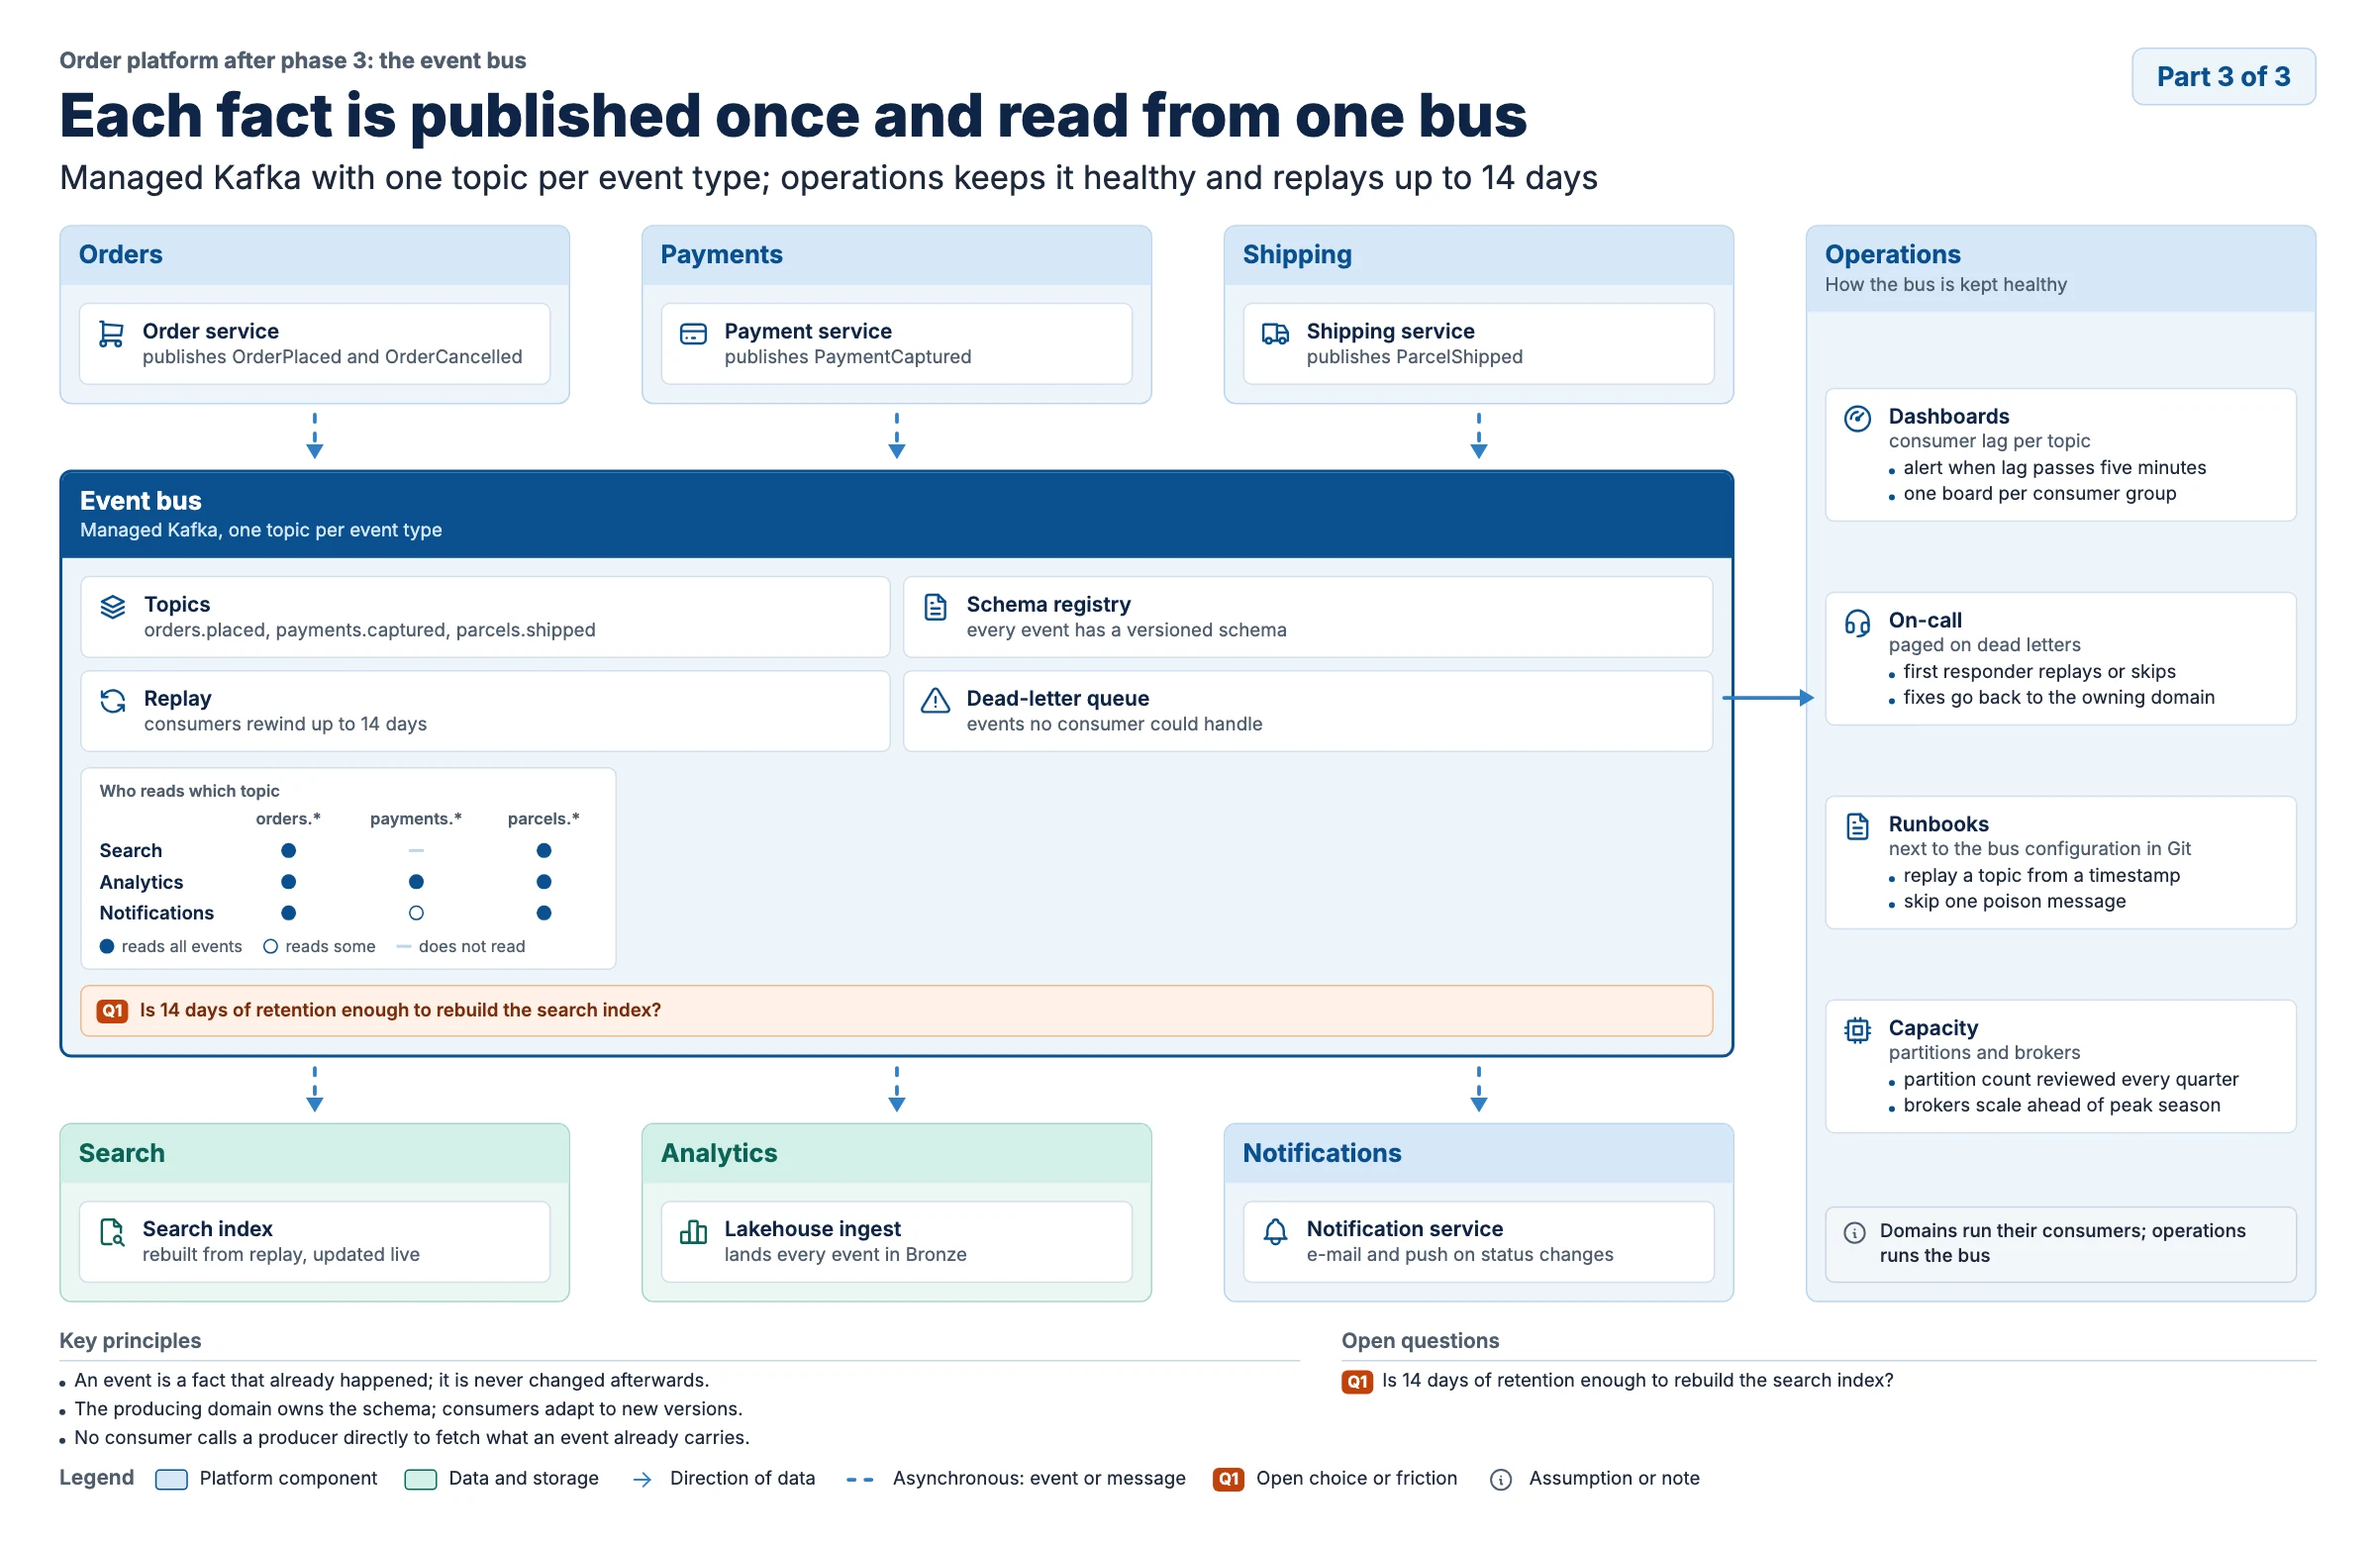
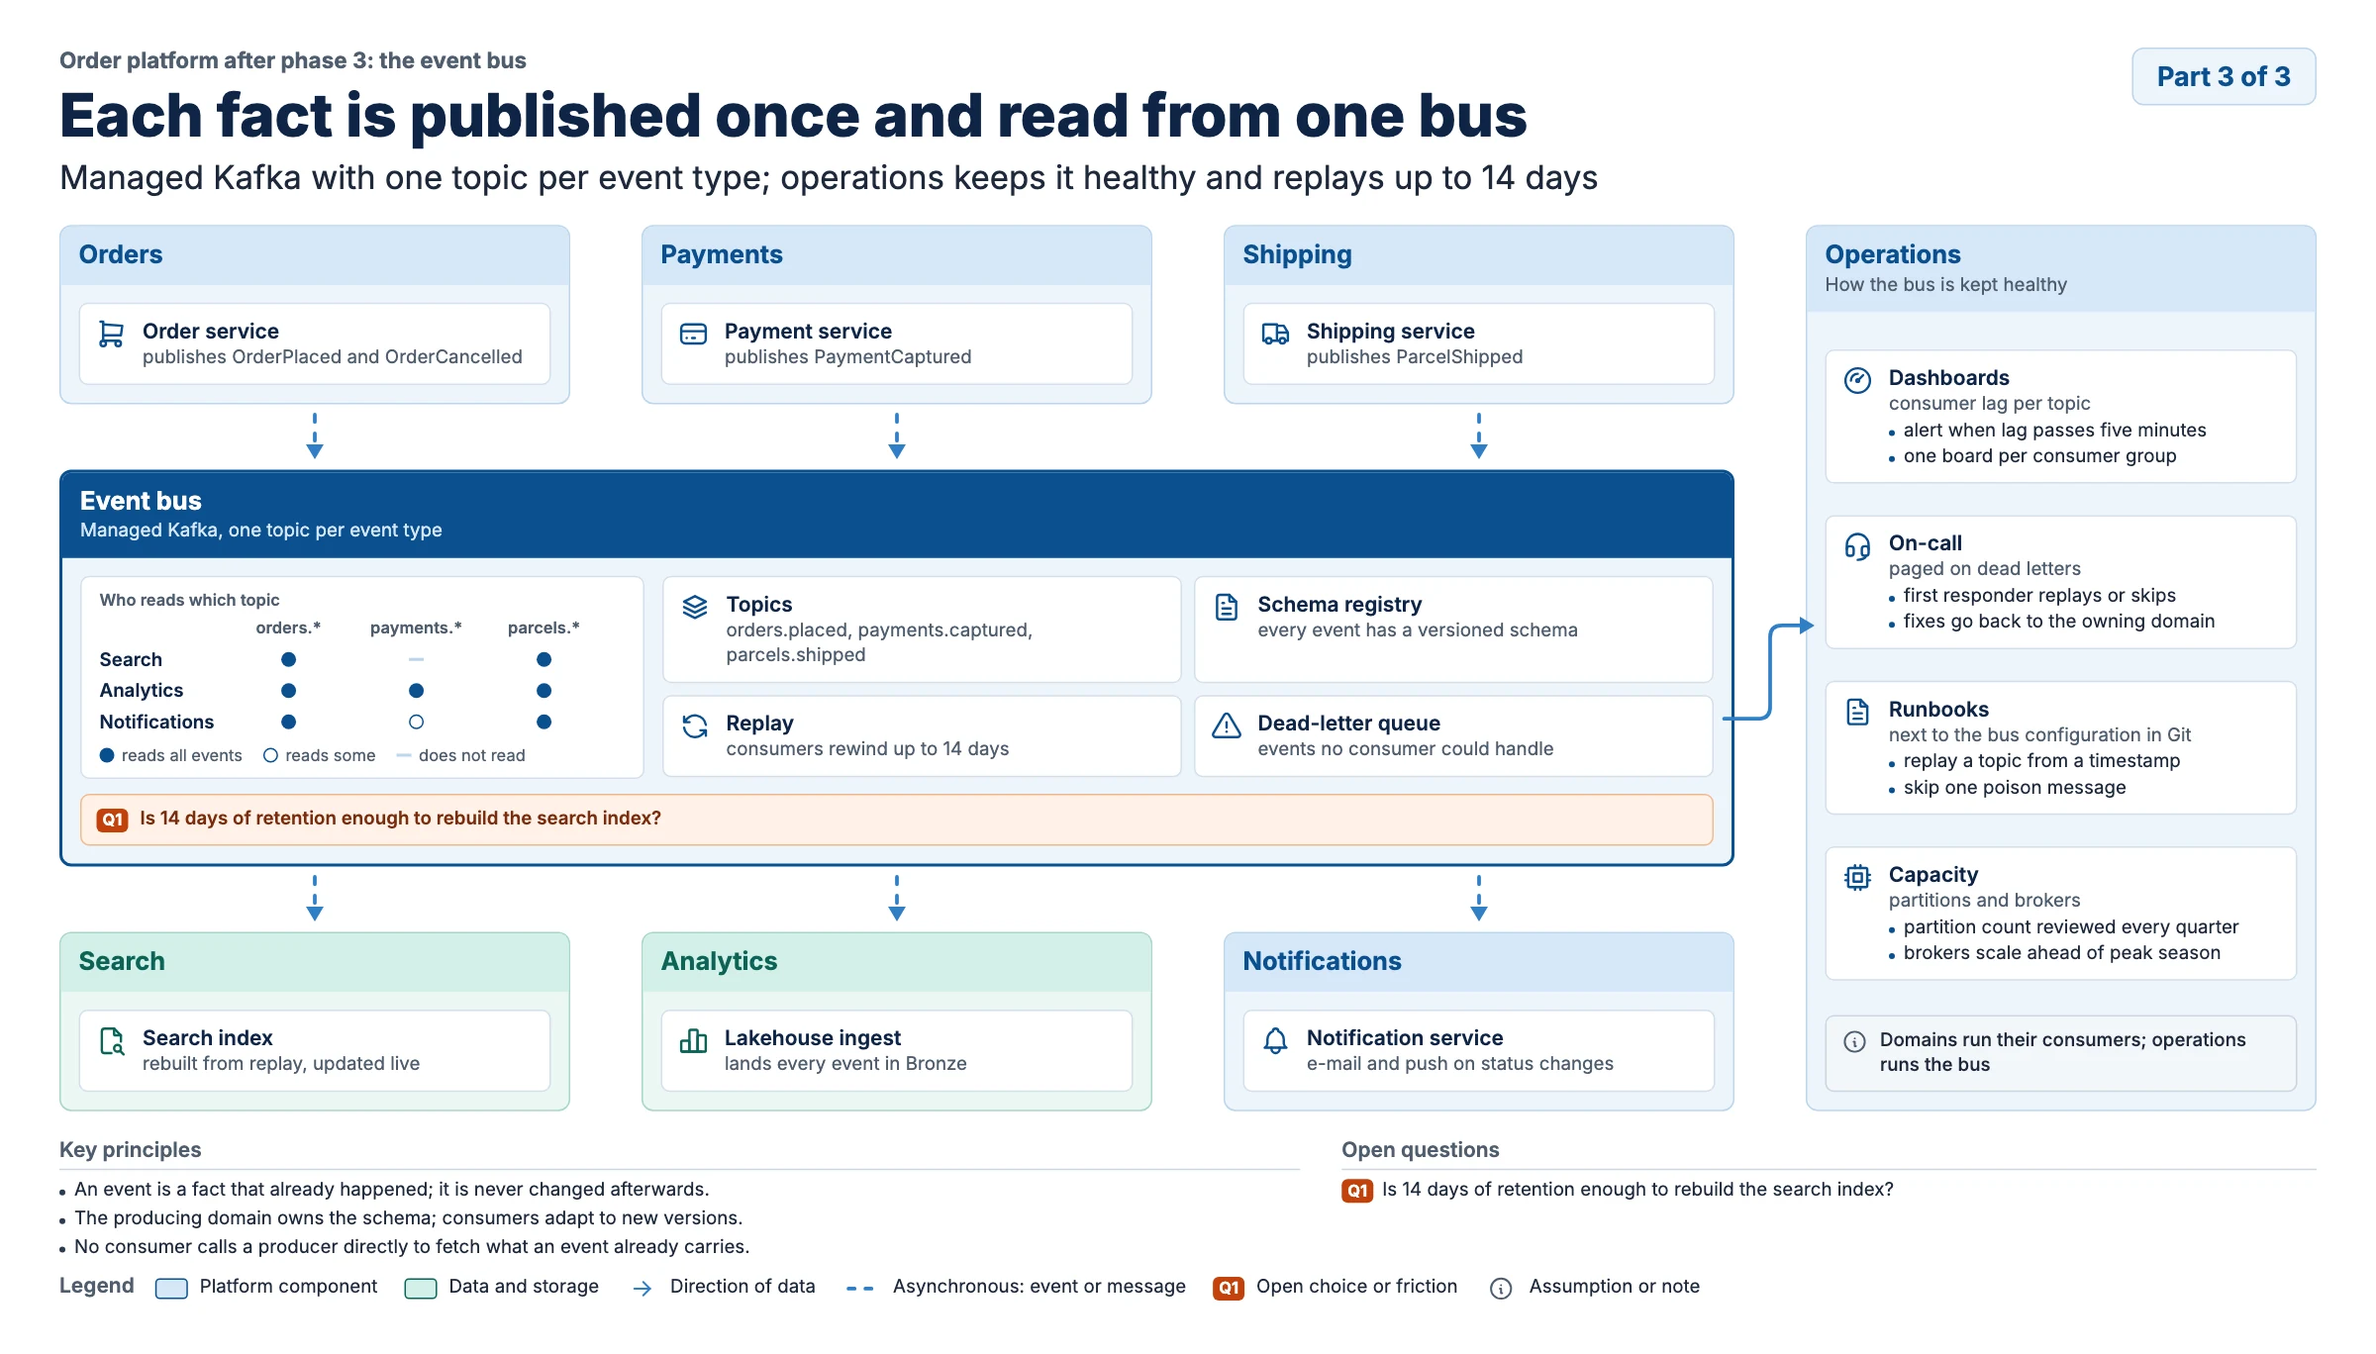
Put the event bus matrix beside the hub's cards
Under the cards it left the hub's right half empty. Side by side (arrange: row), the plate is 130 px shorter and the
Operations spoke spreads its cards half as far.

diff --git a/tests/test_render.py b/tests/test_render.py
@@ -159,6 +159,8 @@ def hub_variant(top: int, bottom: int) -> dict:
     """The eventbus plate with `top` producers and `bottom` consumers (spokes cloned when it needs more)."""
     spec = sp.load_spec(ROOT / "examples" / "orderplatform-eventbus.yaml")
     by_id = {p["id"]: p for p in spec["panels"]}
+    for key in ("arrange", "weights"):  # a narrower hub has no room for its matrix beside the cards
+        by_id["bus"].pop(key, None)
     pool = ["orders", "payments", "shipping", "search", "analytics", "notify"]
     for k in range(top + bottom - len(pool)):
         clone = dict(by_id["notify"], id=f"extra{k}", title=f"Consumer {k + 1}")

diff --git a/CHANGELOG.md b/CHANGELOG.md
@@ -68,6 +68,8 @@ All notable changes to this project. The format follows [Keep a Changelog](https
 - A roadmap's `now` period is tinted down through every lane, not only marked in the band on top.
 - Before-after: a quiet grey chevron in the gutter between two facing panels reads "becomes", so the pairs read as
   what turned into what. It is not an arrow; arrows keep the meaning `flows_mean` gives them.
+- The event bus example puts its matrix beside the hub's cards (`arrange: row`), closing the empty half next to it;
+  the plate is 130 px shorter and the Operations spoke spreads its cards half as far.
 - One loud place per plate. Panel headers are quiet by default (their role's tint, the title in the role's colour);
   only the panels a `focus` is about get a filled header, and without a focus the hub of a hub-and-spokes plate.
   Plates that were a wall of navy headers now lead the eye; the legend's role swatches show the tint they explain.
